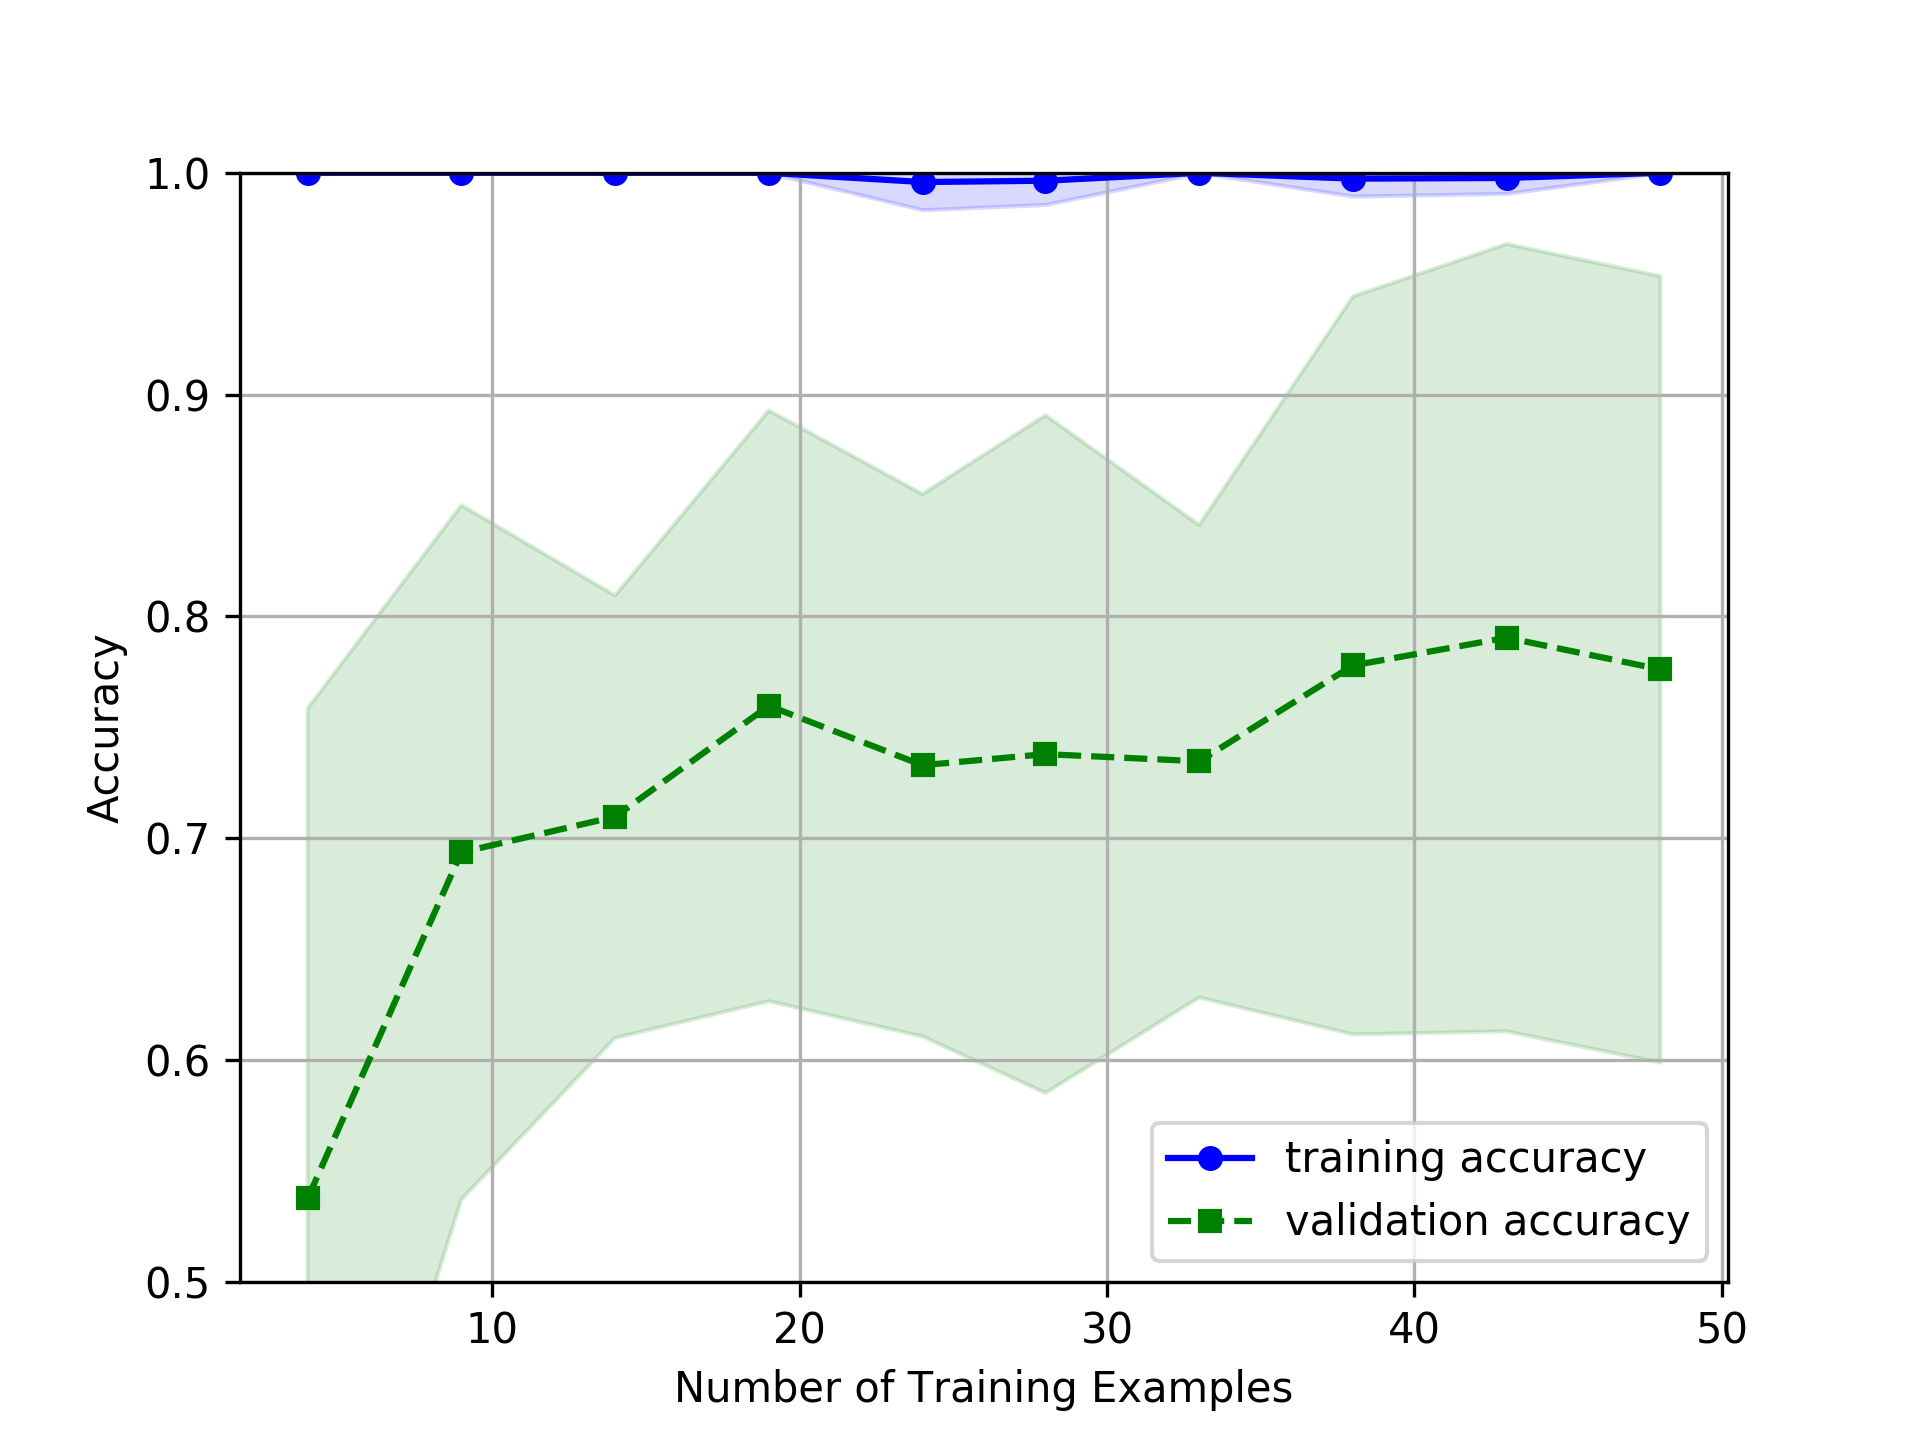
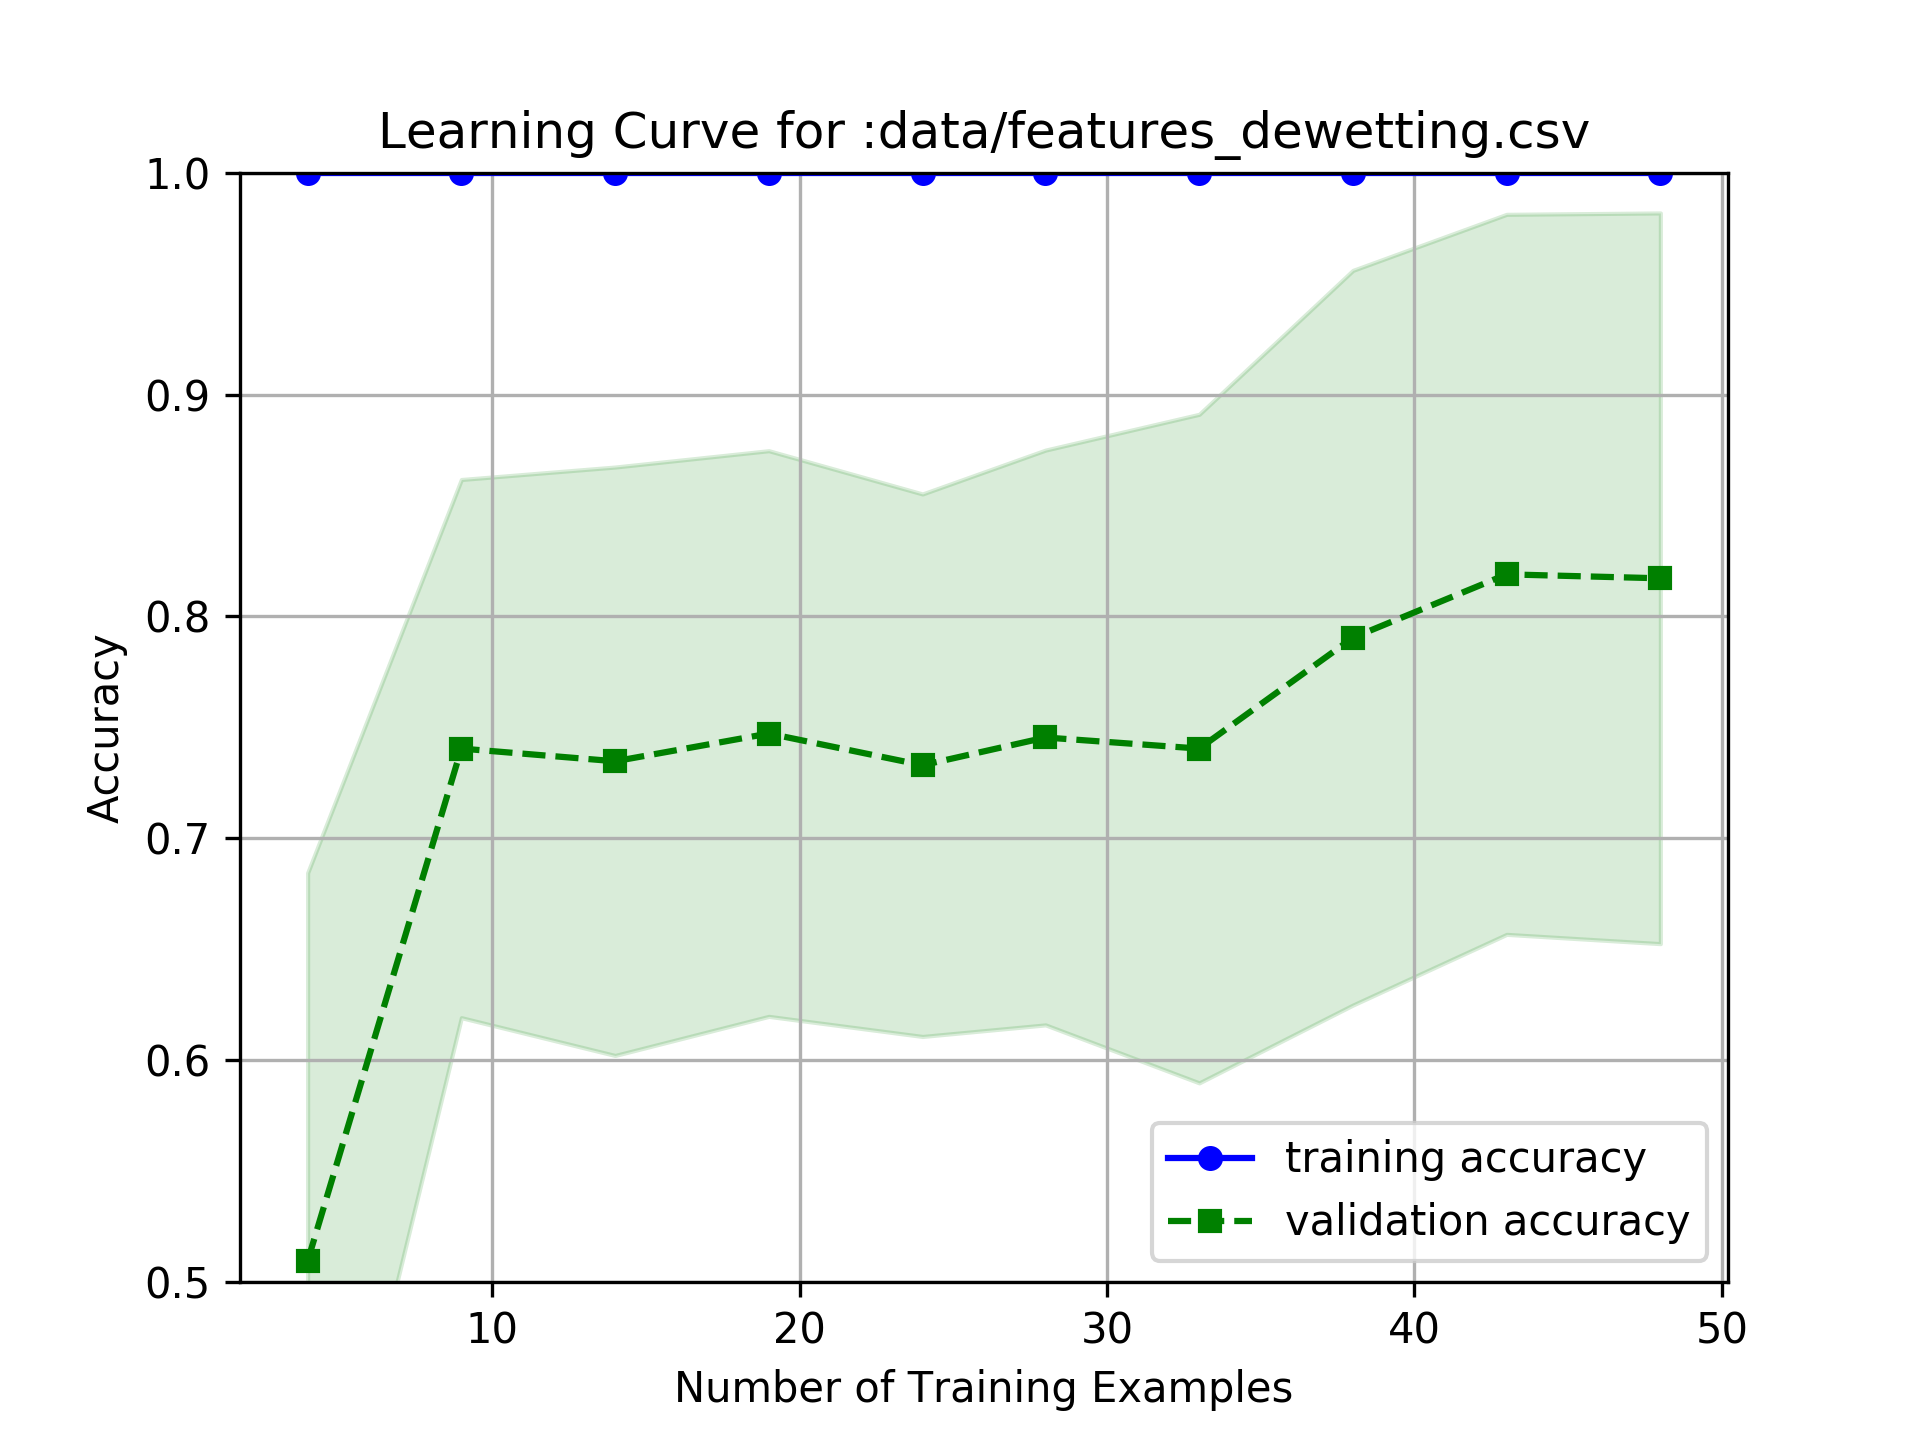
new results with confusion matrix

diff --git a/shared_src/machine_learning/gridsearch_randomforest.py b/shared_src/machine_learning/gridsearch_randomforest.py
@@ -1,6 +1,7 @@
 
 from sklearn.ensemble import RandomForestClassifier
-from sklearn.model_selection import StratifiedKFold, GridSearchCV, learning_curve
+from sklearn.model_selection import StratifiedKFold,GridSearchCV,learning_curve
+from sklearn.metrics import confusion_matrix
 import sys
 from utils import *
 from matplotlib import pyplot as plt
@@ -24,7 +25,8 @@ def Main(file_nms, n_trials, k_folds, print_best,
       features_train = features[:i]
       labels_train   = labels[:i]
 
-      clfs = [GridSearchCV(RandomForestClassifier(),rand_forest_parameters,
+      np.random.seed() # reseed randomly
+      clfs = [GridSearchCV(RandomForestClassifier(), rand_forest_parameters,
               cv=k_folds,return_train_score=True, n_jobs=4)\
               .fit(features_train,labels_train) for i in range(n_trials)]
 
@@ -40,24 +42,75 @@ def Main(file_nms, n_trials, k_folds, print_best,
       results = sorted(results, key=lambda c:c[1], reverse=True)
       if print_results:
          if print_best:
-            print('{}      CV_score={:.4f}      Test_score={:.4f}'.format(*results[0]))
+            print('{}      CV_score={:.4f}      Test_score={:.4f}'.
+                                                format(*results[0]))
          else:
             print('\n'.join(
                 'Best Params={}      CV_score={:.4f}      Test_score={:.4f}'\
                 .format(*c) for c in results))
 
-
       # make learning curves
       best_model_param = results[0][0]
-      generate_learning_curve(file_nm, best_model_param, features_train, labels_train)
+      generate_learning_curve(
+         file_nm, best_model_param, features_train, labels_train,
+         features_test, labels_test, seed=seed)
+
+      # evaluate final accuracy
+      kfoldCV, test_score, con_matrix = evaluate_final_accuracy(
+                     file_nm, best_model_param, features_train, labels_train,
+                     features_test, labels_test, kfolds=k_folds, seed=seed)
+
+      print('LC -> CV(mean:{:.4f},std:{:.4f}), test_score(mean:{:.4f},std:{:.4f})'.format(
+            *kfoldCV, *test_score))
+      print('LC -> confusion_matrix:\n', con_matrix)
+
+      F1_scores = confusion_matrix_f1_scores(con_matrix)
+      print('LC -> F1:\n', F1_scores)
+
+# end of def Main
 
 
-def generate_learning_curve(file_nm, best_params, features_train, labels_train):
-   train_sizes, train_scores, cv_scores =\
-                  learning_curve(
-                  estimator=RandomForestClassifier(**best_params),
-                  X=features_train, y=labels_train,
-                  train_sizes=np.linspace(0.1, 1, 10), cv=10, n_jobs=4)
+def evaluate_final_accuracy(file_nm, best_params, features_train, labels_train,
+                            features_test, labels_test, kfolds=10, seed=None):
+
+   np.random.seed(seed)
+
+   test_score = []
+   con_matrix_labels = sorted(np.unique(np.append(labels_train, labels_test)))
+   con_matrix = np.zeros(shape=(len(con_matrix_labels), len(con_matrix_labels)))
+
+   def model_callback(model, train, test):
+      nonlocal test_score
+      nonlocal con_matrix
+      test_score.append(model.score(features_test, labels_test))
+
+      y_ = labels_train[test]
+      y = model.predict(features_train[test])
+      con_matrix += confusion_matrix(y_, y, labels=con_matrix_labels)
+
+   kfoldCV= kFold_Scikit_Model_Trainer(
+                        features_train, labels_train,
+                        lambda:RandomForestClassifier(**best_params, n_jobs=4),
+                        return_scores=True, kfold_splits=kfolds,
+                        model_callback=model_callback)
+
+   test_score = np.mean(test_score), np.std(test_score)
+   kfoldCV = kfoldCV[0], np.std(kfoldCV[1])
+
+   return kfoldCV, test_score, con_matrix
+
+
+def generate_learning_curve(file_nm, best_params, features_train, labels_train,
+                            features_test, labels_test, seed=None):
+
+   model = RandomForestClassifier(**best_params, n_jobs=4)
+
+   np.random.seed(seed)
+   train_sizes, train_scores, cv_scores = learning_curve(
+                     estimator=model,
+                     X=features_train, y=labels_train,
+                     train_sizes=np.linspace(0.1, 1, 10),
+                     cv=10, n_jobs=4)
 
    train_mean = np.mean(train_scores, axis=1)
    train_std  = np.std(train_scores, axis=1)
@@ -81,9 +134,10 @@ def generate_learning_curve(file_nm, best_params, features_train, labels_train):
    plt.ylabel('Accuracy')
    plt.legend(loc='lower right')
    plt.ylim([0.5, 1.0])
+   plt.title('Learning Curve for :'+file_nm)
    plt.savefig(file_nm+'_figure.png', dpi=300)
-   #plt.show()
 
+# end of def generate_learning_curve
 
 if __name__=='__main__':
    import argparse
